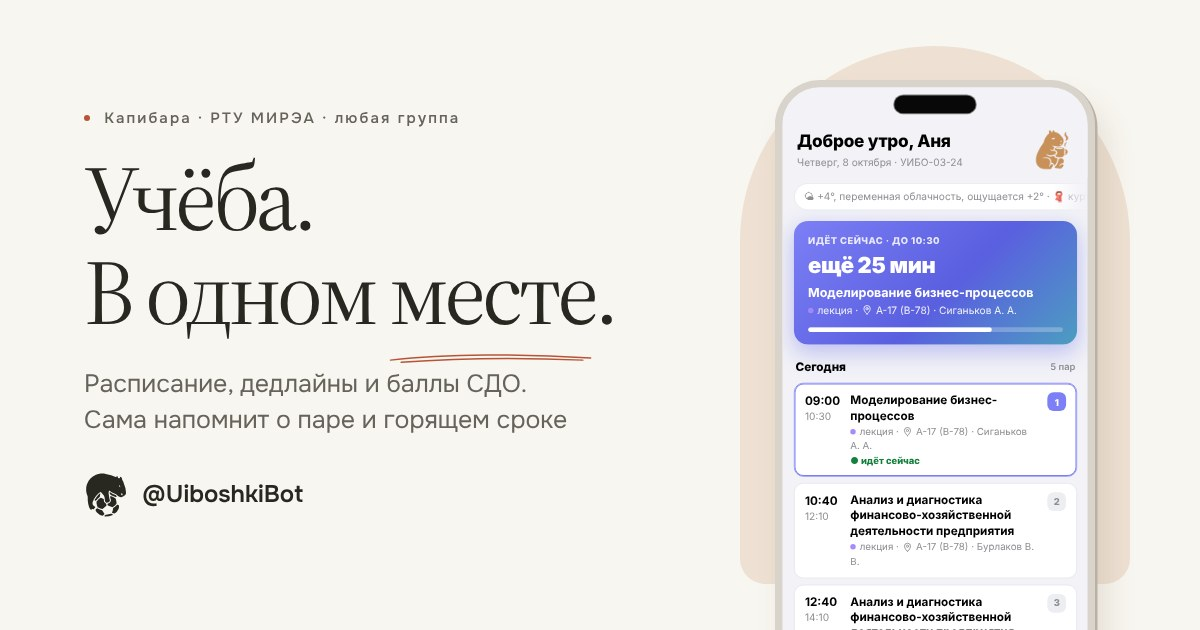
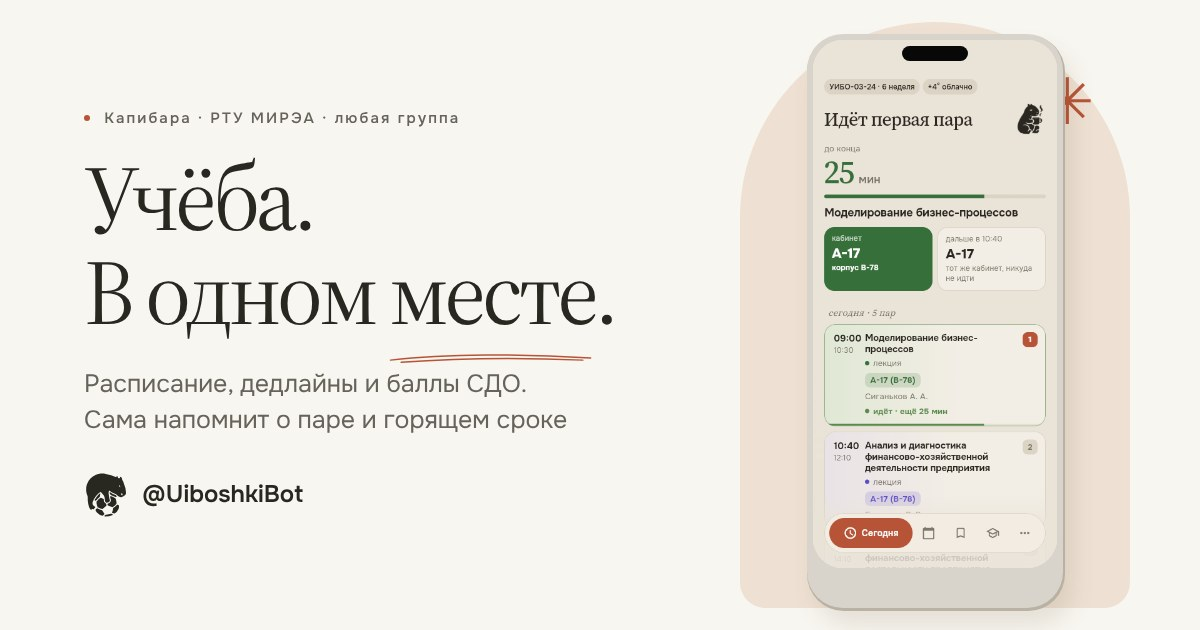
v5.105.0 «Герцен»: открытый канал Капибары @kapibara_mirea — посты news, строка в /start, /help, /app и описании; имя бота «Капибара МИРЭА»; превью сайта с новым приложением

Changed region(s): [[0.6167, 0.0302, 0.925, 1.0]]

diff --git a/channel/posts/25-news-hello-pinned/post.html b/channel/posts/25-news-hello-pinned/post.html
@@ -1,0 +1,23 @@
+<b>Капибара — учёба МИРЭА</b>
+<i>#капибара</i>
+
+Привет! Я Никита, староста УИБО-03-24. Капибару я начинал как бота для своей группы, а теперь она для любой группы МИРЭА. Здесь буду коротко рассказывать, что появилось нового и как этим пользоваться.
+
+<b>Что она умеет</b>
+📅 Расписание своей группы, любого преподавателя и аудитории — открывается и с VPN.
+🎓 Дедлайны и баллы БРС из СДО, сдача работ в пару нажатий.
+📂 Файлы курсов, поиск внутри лекций и конспекты.
+✨ ИИ, который отвечает по лекциям твоей группы и показывает слайд, откуда взял ответ.
+🔔 Напоминания о парах и горящих сроках — когда и как тебе удобно.
+
+<b>Где пользоваться</b>
+• в Telegram — @UiboshkiBot, кнопка «Открыть приложение»
+• в браузере, на телефоне и на компьютере — <a href="https://www.uiboshki.ru/app">uiboshki.ru/app</a>, ставится на экран «Домой» как приложение; войти можно через Telegram или VK ID
+
+<blockquote>Капибара неофициальная: её сделали студенты, а не университет. Пароль от СДО она не видит и не хранит.</blockquote>
+
+<blockquote expandable><b>Как всё делалось</b>
+Как бот рос из чата группы в приложение, что ломалось и почему капибара — в канале разработки @uiboshki_dev. Там с кодом и подробностями.</blockquote>
+
+Нашёл ошибку или есть идея — пиши в комментариях, я читаю всё.
+||Своё приложение для iPhone и Android уже в пути.||

diff --git a/tools/site_og.html b/tools/site_og.html
@@ -12,15 +12,15 @@ html,body{margin:0;width:1200px;height:630px;overflow:hidden;background:var(--pa
 .og .sub{font-size:25px;line-height:1.45;color:var(--secondary)}
 .og .bot{margin-top:34px;display:inline-flex;align-items:center;gap:14px;font-size:24px;font-weight:600}
 .og .bot img{width:44px;height:44px}
-.og-stage{position:absolute;right:70px;top:46px;width:390px;height:538px;border-radius:200px 200px 26px 26px;background:var(--peach);display:flex;justify-content:center;padding-top:34px;box-sizing:border-box}
-.og .phone{transform:scale(1.25);transform-origin:top center}
+.og-stage{position:absolute;right:70px;top:22px;width:390px;height:586px;border-radius:200px 200px 26px 26px;background:var(--peach);display:flex;justify-content:center;padding-top:12px;box-sizing:border-box}
+.og .phone{transform:scale(1);transform-origin:top center}
 .og .star{position:absolute;color:var(--accent);font-size:64px;right:36px;top:30px}
 </style></head><body>
 <div class="og">
   <div class="og-copy">
-    <p class="eyebrow"><span class="tiny-dot accent"></span> РТУ МИРЭА · УИБО-03-24</p>
-    <h1>Учёба группы.<br>В одном <span class="underlined">месте<svg viewBox="0 0 290 14" fill="none"><path d="M2 10C81 1 189 1 284 7M17 13C111 6 204 7 273 10" stroke="currentColor" stroke-width="2" stroke-linecap="round"/></svg></span>.</h1>
-    <p class="sub">Расписание, дедлайны и баллы СДО,<br>лекции и ИИ по ним — прямо в Telegram</p>
+    <p class="eyebrow"><span class="tiny-dot accent"></span> Капибара · РТУ МИРЭА · любая группа</p>
+    <h1>Учёба.<br>В одном <span class="underlined">месте<svg viewBox="0 0 290 14" fill="none"><path d="M2 10C81 1 189 1 284 7M17 13C111 6 204 7 273 10" stroke="currentColor" stroke-width="2" stroke-linecap="round"/></svg></span>.</h1>
+    <p class="sub">Расписание, дедлайны и баллы СДО,<br>лекции и ИИ — в Telegram и на телефоне</p>
     <div class="bot"><img src="/site/capy.svg" alt="">@UiboshkiBot</div>
   </div>
   <div class="og-stage"><span class="star">✳</span>

diff --git a/tools/site_invite.html b/tools/site_invite.html
@@ -14,8 +14,8 @@ html,body{margin:0;width:1200px;height:630px;overflow:hidden;background:var(--pa
 .og .sub{font-size:25px;line-height:1.45;color:var(--secondary)}
 .og .bot{margin-top:34px;display:inline-flex;align-items:center;gap:14px;font-size:24px;font-weight:600}
 .og .bot img{width:44px;height:44px}
-.og-stage{position:absolute;right:70px;top:46px;width:390px;height:538px;border-radius:200px 200px 26px 26px;background:var(--peach);display:flex;justify-content:center;padding-top:34px;box-sizing:border-box}
-.og .phone{transform:scale(1.25);transform-origin:top center;background:#d9d4cb;box-shadow:1px 2px 0 1px #b9b1a4,9px 17px 24px #5c40221f}
+.og-stage{position:absolute;right:70px;top:22px;width:390px;height:586px;border-radius:200px 200px 26px 26px;background:var(--peach);display:flex;justify-content:center;padding-top:12px;box-sizing:border-box}
+.og .phone{transform:scale(1);transform-origin:top center;background:#d9d4cb;box-shadow:1px 2px 0 1px #b9b1a4,9px 17px 24px #5c40221f}
 .og .phone-screen{background:#f2f2f7}
 .og .phone-screen iframe{color-scheme:light}
 .og .star{position:absolute;color:var(--accent);font-size:64px;right:36px;top:30px}

diff --git a/handlers/channel.py b/handlers/channel.py
@@ -25,7 +25,10 @@ def _kb(slug: str, done: bool) -> InlineKeyboardMarkup:
 
 async def _list_text(posts, done) -> str:
     lines = [f"{'✅' if p['slug'] in done else '▫'} <code>{i + 1}</code> {esc(p['title'])}" for i, p in enumerate(posts)]
+    import login_channel
     where = esc(config.CHANNEL_ID) if config.CHANNEL_ID else "⚠ канал не задан — переменная CHANNEL_URL или CHANNEL_ID"
+    news = login_channel.channel()
+    where += f" · посты news — в {esc(news)}" if news else ""
     return (f"📣 <b>Посты канала</b> · {where}\n\n" + "\n".join(lines) +
             "\n\nНиже — превью следующего поста ровно как в канале. <code>/channel N</code> — любой по номеру.")
 
@@ -53,12 +56,12 @@ async def offer_next(bot) -> str | None:
     → slug предложенного поста или None."""
     import json
     from config import STAROSTA_ID
-    from channel_posts import load_posts, published
+    from channel_posts import load_posts, published, target
     from database import get_setting, set_setting
-    if not STAROSTA_ID or not config.CHANNEL_ID:
+    if not STAROSTA_ID:
         return None
     posts, done = load_posts(), await published()
-    idx = next((i for i, p in enumerate(posts) if p["slug"] not in done), None)
+    idx = next((i for i, p in enumerate(posts) if p["slug"] not in done and target(p["slug"])), None)
     if idx is None:
         return None
     try:
@@ -116,7 +119,7 @@ async def _edit(message: Message, posts: list, done: dict):
     """/channel edit 1 4 6 — поправить выпущенные посты (номера как в
     /channel) текстом из репозитория, с той же обложкой. Комментарии и
     просмотры остаются, в отличие от /channel redo."""
-    from channel_posts import edit_post
+    from channel_posts import edit_post, target
     nums = [int(x) for x in (message.text or "").split()[2:] if x.isdigit()]
     if not nums:
         await message.answer("Какие посты поправить? Номера — как в /channel: <code>/channel edit 1 4 6</code>",
@@ -132,7 +135,7 @@ async def _edit(message: Message, posts: list, done: dict):
         if not ids:
             lines.append(f"▫ {n} «{esc(post['title'])}» — ещё не в канале")
             continue
-        res = await edit_post(message.bot, config.CHANNEL_ID, post, ids, config.WEBAPP_URL)
+        res = await edit_post(message.bot, target(post["slug"]), post, ids, config.WEBAPP_URL)
         mark = {"ok": "✅", "same": "➖"}.get(res, "⚠")
         note = {"ok": "поправлен", "same": "уже такой"}.get(res, esc(res)[:200])
         lines.append(f"{mark} {n} «{esc(post['title'])}» — {note}")
@@ -144,15 +147,18 @@ async def channel_button(callback: CallbackQuery):
     if not is_starosta(callback.from_user.id):
         await callback.answer("Только для старосты", show_alert=True)
         return
-    from channel_posts import forget_published, load_posts, mark_published, post_link, published, send_post
+    from channel_posts import forget_published, load_posts, mark_published, post_link, published, send_post, target
     _, action, *rest = callback.data.split(":", 2)
     slug = rest[0] if rest else ""
     posts, done = load_posts(), await published()
     if action == "redo":
-        ids = [i for v in done.values() for i in v.get("ids", [])]
+        by_chat: dict[str, list[int]] = {}
+        for done_slug, v in done.items():
+            by_chat.setdefault(target(done_slug), []).extend(v.get("ids", []))
         try:
-            for k in range(0, len(ids), 100):
-                await callback.bot.delete_messages(config.CHANNEL_ID, ids[k:k + 100])
+            for chat, ids in by_chat.items():
+                for k in range(0, len(ids), 100):
+                    await callback.bot.delete_messages(chat, ids[k:k + 100])
         except Exception as e:
             await callback.answer("Не вышло удалить", show_alert=True)
             await callback.message.answer(f"⚠ Не удалил: {esc(str(e))[:300]}\n"
@@ -175,8 +181,10 @@ async def channel_button(callback: CallbackQuery):
         await _preview(callback.bot, callback.message.chat.id, posts, idx + 1, done)
         return
     # action == "pub"
-    if not config.CHANNEL_ID:
-        await callback.answer("Канал не задан: переменная CHANNEL_URL или CHANNEL_ID", show_alert=True)
+    chat = target(slug)
+    if not chat:
+        await callback.answer("Канал не задан: переменная LOGIN_CHANNEL (посты news) или CHANNEL_URL / CHANNEL_ID",
+                              show_alert=True)
         return
     from locks import lock
     # двойное нажатие: оба колбэка видели «ещё не в канале» и, пока шла
@@ -186,7 +194,7 @@ async def channel_button(callback: CallbackQuery):
             await callback.answer("Этот пост уже в канале", show_alert=True)
             return
         try:
-            ids = await send_post(callback.bot, config.CHANNEL_ID, posts[idx], config.WEBAPP_URL)
+            ids = await send_post(callback.bot, chat, posts[idx], config.WEBAPP_URL)
         except Exception as e:
             await callback.answer("Не вышло — бот админ канала?", show_alert=True)
             await callback.message.answer(f"⚠ Не опубликовал: {esc(str(e))[:300]}\n"
@@ -195,11 +203,11 @@ async def channel_button(callback: CallbackQuery):
         await mark_published(slug, ids)
     if "pinned" in slug:              # закреп с оглавлением — сразу закрепить
         try:
-            await callback.bot.pin_chat_message(config.CHANNEL_ID, ids[0], disable_notification=True)
+            await callback.bot.pin_chat_message(chat, ids[0], disable_notification=True)
         except Exception as e:
             await callback.message.answer(f"Не закрепил сам ({esc(str(e))[:200]}) — закрепи руками.", parse_mode="HTML")
     await callback.message.edit_reply_markup(reply_markup=_kb(slug, True))
-    link = post_link(config.CHANNEL_ID, ids[0])
+    link = post_link(chat, ids[0])
     await callback.message.answer(f"✅ В канале: «{esc(posts[idx]['title'])}»" + (f"\n{link}" if link else ""),
                                   parse_mode="HTML", reply_markup=InlineKeyboardMarkup(inline_keyboard=[[
                                       InlineKeyboardButton(text="Следующий ▸", callback_data=f"chan:next:{slug}")]]))

diff --git a/handlers/start.py b/handlers/start.py
@@ -298,9 +298,12 @@ async def cmd_app(message: Message):
     if not kb:
         await message.answer("🚧 Приложение скоро появится — его ещё не включили.")
         return
+    import login_channel
+    news = login_channel.news_line()
     await message.answer(
         "🚀 Расписание, дедлайны, ДЗ, файлы и чат с ИИ — в одном окне.\n"
-        "📱 Без Telegram — uiboshki.ru/app: ставится на телефон и компьютер как приложение.",
+        "📱 Без Telegram — uiboshki.ru/app: ставится на телефон и компьютер как приложение."
+        + (f"\n{news}" if news else ""),
         reply_markup=kb,
     )
 
@@ -391,8 +394,15 @@ def start_text(first_name: str) -> str:
         "задать вопрос или прислать фото задачи — отвечу.\n\n"
         "📱 Без Telegram — тоже: <b>uiboshki.ru/app</b> ставится на экран телефона "
         "или компьютера как приложение (как — в приложении: Ещё → Установить).\n\n"
-        "✨ Всё это бесплатно. Хочешь больше — /plus: подписка «Капибара+», оплата на сайте."
+        + _news()
+        + "✨ Всё это бесплатно. Хочешь больше — /plus: подписка «Капибара+», оплата на сайте."
     )
+
+
+def _news() -> str:
+    import login_channel
+    news = login_channel.news_line()
+    return f"{news}\n\n" if news else ""
 
 
 HELP_TEXT = (
@@ -425,6 +435,12 @@ HELP_TEXT = (
     "/privacy — согласие и политика обработки персональных данных · /deleteme — удалить всё о себе"
 )
 
+def help_text() -> str:
+    """HELP_TEXT и строка про открытый канал под «Без Telegram», если он задан."""
+    news = _news()
+    return HELP_TEXT.replace("уведомления пушем.\n\n", "уведомления пушем.\n" + news, 1) if news else HELP_TEXT
+
+
 STAROSTA_HELP = (
     "\n\n👑 <b>Для старосты</b>\n"
     "/announce — рассылка · /addhw — добавить ДЗ\n"
@@ -454,7 +470,7 @@ async def cmd_help(message: Message):
     # Команды старосты видит только староста (и зам): остальным они только
     # мешали — и всё равно отвечали бы «только для старосты».
     from database import is_editor
-    text = HELP_TEXT
+    text = help_text()
     if await is_editor(message.from_user.id):
         text += STAROSTA_HELP
     await message.answer(text, parse_mode="HTML", reply_markup=app_button())

diff --git a/tests/test_channel_posts.py b/tests/test_channel_posts.py
@@ -227,6 +227,39 @@ async def test_offer_next_after_deploy(db, tmp_path, monkeypatch):
     assert await channel.offer_next(bot) is None                              # канал не задан — молчим
 
 
+@pytest.mark.asyncio
+async def test_news_posts_go_to_open_channel(db, tmp_path, monkeypatch):
+    """«news» в имени папки — пост для открытого канала Капибары (LOGIN_CHANNEL,
+    Никита 19.10), остальные — в канал разработки; закреп — там же, куда вышел."""
+    from handlers import channel
+    _post(tmp_path, "24-bot-or-app", "<b>Бот или приложение</b>")
+    _post(tmp_path, "25-news-hello-pinned", "<b>Капибара — учёба МИРЭА</b>")
+    monkeypatch.setattr(channel_posts, "POSTS_DIR", tmp_path)
+    monkeypatch.setattr(config, "CHANNEL_ID", "@uiboshki_dev")
+    monkeypatch.setattr(config, "STAROSTA_ID", STAROSTA_ID)
+    monkeypatch.setattr(config, "LOGIN_CHANNEL", "")
+    assert channel_posts.target("25-news-hello-pinned") == "" and channel_posts.target("24-bot-or-app") == "@uiboshki_dev"
+    assert channel_posts.target("03-newspaper") == "@uiboshki_dev"           # только слово целиком
+    await channel_posts.mark_published("24-bot-or-app", [1])
+    bot = Bot(token="123456:TEST-TOKEN-NOT-REAL-AAAAAAAAAAAAAAAAAAA", session=Session())
+    assert await channel.offer_next(bot) is None                              # канала новостей нет — не предлагаем
+    monkeypatch.setattr(config, "LOGIN_CHANNEL", "https://t.me/kapibara_mirea")
+    assert channel_posts.target("25-news-hello-pinned") == "@kapibara_mirea"
+    dp = Dispatcher(storage=MemoryStorage())
+    dp.include_router(channel.router)
+    star = User(id=STAROSTA_ID, is_bot=False, first_name="S")
+    msg = Message(message_id=1, date=0, chat=Chat(id=STAROSTA_ID, type="private"), from_user=star, text="x")
+    try:
+        await dp.feed_update(bot, Update(update_id=1, callback_query=CallbackQuery(
+            id="1", from_user=star, chat_instance="c", data="chan:pub:25-news-hello-pinned", message=msg)))
+        chats = [c for c, _, _ in bot.session.sent]
+        assert "@kapibara_mirea" in chats and "@uiboshki_dev" not in chats
+        assert any(c == "@kapibara_mirea" and t == "PinChatMessage" for c, t, _ in bot.session.sent)
+        assert "t.me/kapibara_mirea/" in bot.session.sent[-1][1]
+    finally:
+        channel.router._parent_router = None
+
+
 # Теги, которые понимает Telegram в parse_mode=HTML
 TG_TAGS = {"b", "strong", "i", "em", "u", "ins", "s", "strike", "del", "code", "pre", "a",
            "tg-spoiler", "blockquote", "span", "tg-emoji"}

diff --git a/tools/site_og.py b/tools/site_og.py
@@ -10,7 +10,6 @@
 Страница — стили сайта и живое демо (/about/demo) в телефоне.
 """
 import os
-import re
 import sys
 from pathlib import Path
 
@@ -18,18 +17,9 @@ from playwright.sync_api import sync_playwright
 
 ROOT = Path(__file__).resolve().parent.parent
 
-# Светлая тема Telegram (iOS) для демо: заглушка site/demo.js по умолчанию тёмная.
-# Подменяем только в браузере снимка — сам демо на сайте остаётся как есть.
-LIGHT = ('colorScheme: "light", themeParams: {bg_color: "#f2f2f7", secondary_bg_color: "#ffffff", '
-         'section_bg_color: "#ffffff", text_color: "#000000", hint_color: "#8e8e93", '
-         'section_separator_color: "#e4e6ea"}')
-DARK = 'colorScheme: "dark", themeParams: {}'
-
-
-def light_demo(js: str) -> str:
-    if DARK not in js:
-        raise SystemExit("site/demo.js: не нашёл тёмную тему заглушки — поправь tools/site_og.py")
-    return js.replace(DARK, LIGHT, 1)
+# С 5.104 демо на сайте — само приложение (веб-сборка Flutter): тему оно берёт
+# из системы (prefers-color-scheme), её и задаём браузеру снимка —
+# приглашение светлое, превью сайта тёмное.
 
 
 def main(base: str, invite: bool = False):
@@ -38,16 +28,12 @@ def main(base: str, invite: bool = False):
     html = (ROOT / "tools" / page_html).read_text(encoding="utf-8")
     with sync_playwright() as p:
         b = p.chromium.launch(executable_path=os.environ.get("CHROMIUM") or None)   # своя сборка — CHROMIUM=…
-        ctx = b.new_context(viewport={"width": 1200, "height": 630})
-        if invite:
-            def patch(route):
-                resp = route.fetch()
-                route.fulfill(response=resp, body=light_demo(resp.text()))
-            ctx.route(re.compile(r"/site/demo\.js(\?|$)"), patch)     # не demo.json
+        ctx = b.new_context(viewport={"width": 1200, "height": 630},
+                            color_scheme="light" if invite else "dark")
         pg = ctx.new_page()
         pg.goto(base.rstrip("/") + "/about", wait_until="networkidle")
         pg.set_content(html, wait_until="networkidle")
-        pg.wait_for_timeout(3000)                     # демо в iframe дорисовывает главную
+        pg.wait_for_timeout(6000)                     # приложение в iframe запускается и рисует главную
         pg.screenshot(path=str(ROOT / "webapp/static/site" / out), type="jpeg", quality=88)
         b.close()
 

diff --git a/bot.py b/bot.py
@@ -97,6 +97,15 @@ BOT_DESCRIPTION = (
     "📱 И без Telegram: uiboshki.ru/app ставится на телефон и компьютер как приложение"
 )
 BOT_SHORT_DESCRIPTION = "Расписание, СДО, лекции и ИИ для любой группы МИРЭА — в Telegram и на uiboshki.ru"
+# Имя бота в Telegram (Никита 17.10: «Капибара МИРЭА»; адрес @UiboshkiBot не
+# меняем — старые ссылки умрут). Ставит сам бот, без BotFather.
+BOT_NAME = "Капибара МИРЭА"
+
+
+def bot_description(group: str) -> str:
+    import login_channel
+    news = login_channel.news_line()
+    return BOT_DESCRIPTION.format(group=group) + (f"\n{news}" if news else "")
 
 
 async def setup_bot_menu(bot: Bot):
@@ -114,7 +123,13 @@ async def setup_bot_menu(bot: Bot):
                 logger.info(f"Команды старосты {sid}: {e}")
         from config import GROUP_NAME
         try:
-            await bot.set_my_description(BOT_DESCRIPTION.format(group=GROUP_NAME))
+            # имя — только если другое: Telegram ограничивает частую смену
+            if (await bot.get_my_name()).name != BOT_NAME:
+                await bot.set_my_name(BOT_NAME)
+        except Exception as e:
+            logger.info(f"Имя бота: {e}")
+        try:
+            await bot.set_my_description(bot_description(GROUP_NAME))
             await bot.set_my_short_description(BOT_SHORT_DESCRIPTION.format(group=GROUP_NAME))
         except Exception as e:          # лимит Telegram на частую смену — не страшно
             logger.info(f"Описание бота: {e}")

diff --git a/channel_posts.py b/channel_posts.py
@@ -2,7 +2,8 @@
 Посты канала бота (этап 3): лежат в репозитории, публикует сам бот — админ
 канала, — по кнопке старосты (`/channel`, handlers/channel.py).
 
-Каждый пост — папка channel/posts/NN-имя/:
+Каждый пост — папка channel/posts/NN-имя/ («news» в имени — пост для
+открытого канала Капибары, остальные — канал разработки, target):
   • post.html — текст в разметке Telegram (HTML: <b>, <i>, <u>, <s>,
     <tg-spoiler>, <code>, <pre><code class="language-python">, <blockquote>,
     <blockquote expandable>, <a href>), до 4096 символов;
@@ -34,6 +35,15 @@ CAPTION_LIMIT = 1024     # подпись к фото/альбому
 TEXT_LIMIT = 4096        # обычное сообщение
 IMAGE_EXT = (".png", ".jpg", ".jpeg", ".webp")
 COVER_VERSION = "1"      # поменять — Telegram заберёт обложки заново
+
+
+def target(slug: str) -> str:
+    """Куда выходит пост: «news» в имени папки (`25-news-hello-pinned`) —
+    открытый канал Капибары для всех (LOGIN_CHANNEL, Никита 19.10), остальные —
+    канал разработки (CHANNEL_ID). Не задан — пусто."""
+    import config
+    import login_channel
+    return login_channel.channel() if "news" in slug.split("-") else config.CHANNEL_ID
 
 
 def visible_len(html: str) -> int:

diff --git a/tools/changelog.py b/tools/changelog.py
@@ -38,6 +38,7 @@ OWNER_NAMES = ["Маркет-Гарден"]
 # Деятели Российской империи и СССР (владелец, 07.10: «названия ставь сам, но
 # чтобы хоть как-то соответствовали сделанному»): имя → под какую версию.
 FIGURES = {
+    "Герцен": "Александр Герцен издавал «Колокол» — открытое издание для всех читателей: новый открытый канал Капибары для пользователей, бот сам публикует в него посты; имя бота — «Капибара МИРЭА»",
     "Дранков": "Александр Дранков снял первый русский игровой фильм «Понизовая вольница» — на сайте в рамке телефона теперь само приложение, а не прежний Mini App",
     "Щукин": "второй коллекционер после Третьякова: свою коллекцию показывал гостям по приглашению — подписочные иконки видны тем, у кого подписка",
     "Морозов": "третий коллекционер: собрание держал в особняке и не выставлял — на iPhone подписочные иконки не показываются вовсе",

diff --git a/tests/test_platforms.py b/tests/test_platforms.py
@@ -12,3 +12,17 @@ def test_bot_description_mentions_pwa():
 def test_start_and_help_mention_pwa():
     assert "uiboshki.ru/app" in start_text("Аня") and "Ещё → Установить" in start_text("Аня")
     assert "uiboshki.ru/app" in HELP_TEXT and "VK" in HELP_TEXT
+
+
+def test_news_channel_everywhere(monkeypatch):
+    """Открытый канал Капибары (LOGIN_CHANNEL, Никита 19.10) — в /start, /help и
+    описании бота; не задан — строки нет. Имя бота — «Капибара МИРЭА»."""
+    import config
+    from handlers.start import help_text
+    monkeypatch.setattr(config, "LOGIN_CHANNEL", "")
+    assert "Новости Капибары" not in start_text("Аня") + help_text() + bot.bot_description("УИБО-03-24")
+    monkeypatch.setattr(config, "LOGIN_CHANNEL", "@kapibara_mirea")
+    for text in (start_text("Аня"), help_text(), bot.bot_description("УИБО-03-24")):
+        assert "Новости Капибары — @kapibara_mirea" in text
+    assert len(bot.bot_description("УИБО-03-24")) <= 512                   # предел Telegram
+    assert bot.BOT_NAME == "Капибара МИРЭА"

diff --git a/tests/test_plus.py b/tests/test_plus.py
@@ -474,7 +474,7 @@ def test_invite_image_is_own_light_picture(client):  # noqa: F811
     phone = img.crop((800, 130, 1070, 600))                                   # экран приложения в телефоне
     assert ImageStat.Stat(phone).mean[0] > 170                                # светлый (у og.jpg ~60)
     tool = Path("tools/site_og.py").read_text(encoding="utf-8")
-    assert "--invite" in tool and "invite.jpg" in tool and 'colorScheme: "light"' in tool
+    assert "--invite" in tool and "invite.jpg" in tool and 'color_scheme="light" if invite' in tool
     html = Path("webapp/static/site/index.html").read_text(encoding="utf-8")
     assert "/site/og.jpg" in html and "invite.jpg" not in html               # превью сайта — прежнее
 
